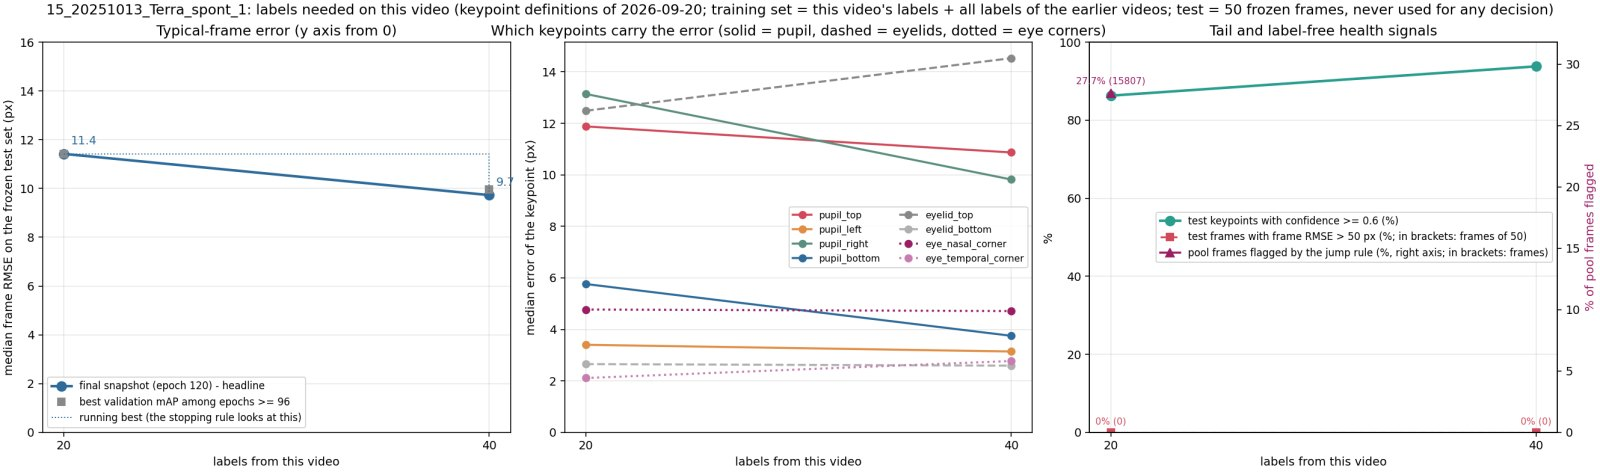
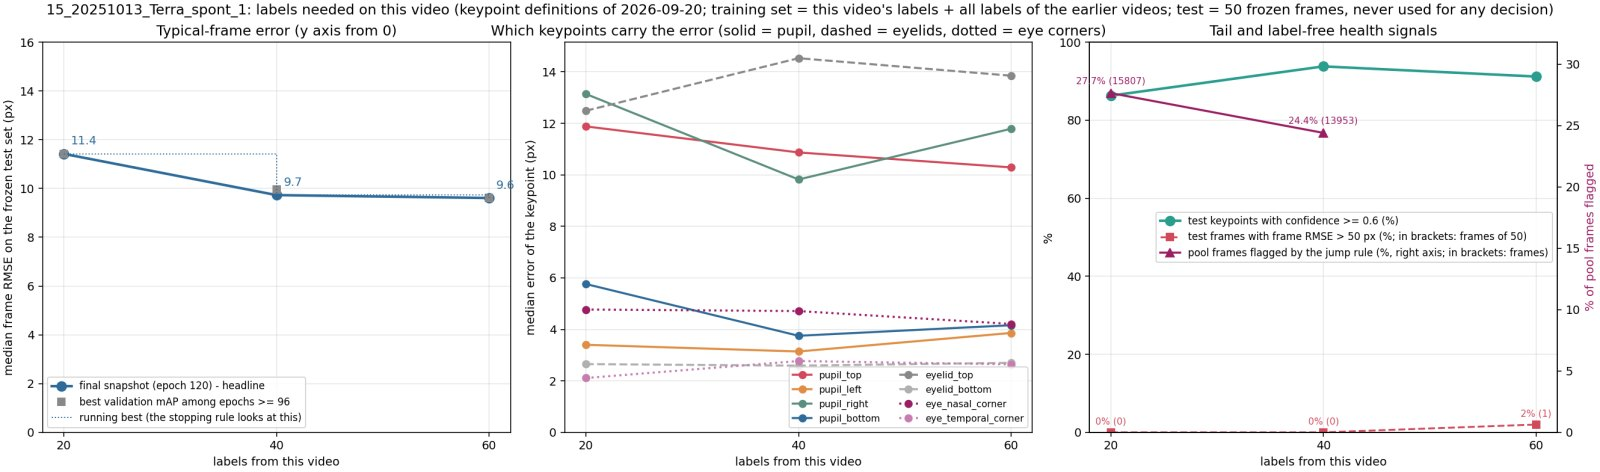
Plateau table: stray comma in the video 15 note removed (broke the CSV); plateau figure and page rebuilt with the step-3 numbers
Claude-Session: https://claude.ai/code/session_01HbY3eFuxfPQiRo7QFugpjw

diff --git a/report/index.html b/report/index.html
@@ -78,7 +78,7 @@ math[display="block"]{margin:10px 0 6px;text-align:left;overflow-x:auto;max-widt
 
 <header>
   <h1><span lang="zh">小鼠眼睛关键点追踪：做了什么，结果是什么</span><span lang="en">Mouse eye keypoint tracking: what was done and what came out</span></h1>
-  <p class="muted small">Zhiheng Li (University of Minnesota), Kaiwen Sheng (Stanford) · <span lang="zh">页面生成时间</span><span lang="en">page built</span> 2026-10-08 01:15 · <a href="https://github.com/ZhihengLi0/mouse-behavior-tracking">GitHub: ZhihengLi0/mouse-behavior-tracking</a></p>
+  <p class="muted small">Zhiheng Li (University of Minnesota), Kaiwen Sheng (Stanford) · <span lang="zh">页面生成时间</span><span lang="en">page built</span> 2026-10-08 12:14 · <a href="https://github.com/ZhihengLi0/mouse-behavior-tracking">GitHub: ZhihengLi0/mouse-behavior-tracking</a></p>
 
   <div class="text" lang="zh">
     <p><b>任务：</b>用 DeepLabCut 在小鼠眼睛视频的每一帧上找 8 个点：瞳孔上、下、左、右，上眼睑、下眼睑，鼻侧眼角、颞侧眼角。由这 8 个点得到瞳孔大小、眼睛睁开程度和眨眼，之后与脑记录对齐。</p>
@@ -105,7 +105,7 @@ math[display="block"]{margin:10px 0 6px;text-align:left;overflow-x:auto;max-widt
       <li><b>瞳孔面积怎么算？</b>按 2026 年 9 月 20 日明确的定义，瞳孔四个点都是椭圆端点，在 15 个视频的 743 帧测试帧上，四点法的面积误差中位数是 5.7%，三点法是 7.6%；视频 4 和 8 上面积仍然不准（第 9 步）。</li>
       <li><b>眨眼怎么判断？</b>第一轮先定了定义：非睁眼 = 眼睛闭上或眼睑盖住部分瞳孔。按帧的规则"睁开高度 ÷ 眼宽 &lt; 0.347"（眼睑点失效时看瞳孔置信度）在 239 帧单帧盲评上准确率 91%。主要发现：7 个视频（3、4、8–12）有 26–70% 的时间眼睛不是完全睁开的，半掩是那些录像的常态；眨眼是其中的子集，细分放下一轮（第 10 步）。</li>
     </ol>
-    <p><b>进度：</b>已完成 15 个视频（视频 0–14）；视频 15 进行中，按 0 / 20 / 40 / … 帧的误差为 10.57 / 11.42 / 9.73 px。</p>
+    <p><b>进度：</b>已完成 15 个视频（视频 0–14）；视频 15 进行中，按 0 / 20 / 40 / … 帧的误差为 10.57 / 11.42 / 9.73 / 9.61 px。</p>
   </div>
   <div class="text" lang="en">
     <p><b>Task:</b> DeepLabCut finds 8 points on every frame of a mouse-eye video: pupil top, bottom, left, right; upper and lower eyelid; nasal and temporal eye corner. From these we get pupil size, eye opening and blinks, to be aligned with brain recordings later.</p>
@@ -132,7 +132,7 @@ math[display="block"]{margin:10px 0 6px;text-align:left;overflow-x:auto;max-widt
       <li><b>How to compute the pupil area?</b> Under the definitions made explicit on 2026-09-20 all four pupil points are ellipse endpoints, and on the 743 test frames of 15 videos the four-point area has a median error of 5.7% against 7.6% for the three-point rule; on videos 4 and 8 the area is still not accurate (step 9).</li>
       <li><b>How to detect blinks?</b> The first round fixed a definition first: not open = the eye is closed or the lid covers part of the pupil. The per-frame rule "eye opening ÷ eye width &lt; 0.347" (pupil confidence when the eyelid points fail) is 91% accurate on 239 blind single frames. Main finding: in 7 videos (3, 4, 8–12) the eye is not fully open 26–70% of the time — a half-covered eye is the resting state of those recordings; blinks are a subset, and the finer classes come next (step 10).</li>
     </ol>
-    <p><b>Status:</b> 15 videos finished (videos 0–14); video 15 in progress, error at 0 / 20 / 40 / … labels: 10.57 / 11.42 / 9.73 px.</p>
+    <p><b>Status:</b> 15 videos finished (videos 0–14); video 15 in progress, error at 0 / 20 / 40 / … labels: 10.57 / 11.42 / 9.73 / 9.61 px.</p>
   </div>
 
   <div class="text" lang="zh">
@@ -627,7 +627,7 @@ math[display="block"]{margin:10px 0 6px;text-align:left;overflow-x:auto;max-widt
 <tr><td>12</td><td>Terra<br>2025-10-16</td><td>580</td><td>5.13 / 5.77 / 5.84</td><td><span lang="zh"><b>0 帧，5.13 px</b></span><span lang="en"><b>0 labels, 5.13 px</b></span></td><td>40</td><td>0</td></tr>
 <tr><td>13</td><td>Terra<br>2025-10-15</td><td>580</td><td>69.13 / 9.43 / 9.44 / 9.67</td><td><span lang="zh"><b>20 帧，9.43 px</b></span><span lang="en"><b>20 labels, 9.43 px</b></span></td><td>60</td><td>20</td></tr>
 <tr><td>14</td><td>Terra<br>2025-10-14</td><td>600</td><td>13.33 / 10.83 / 12.41 / 10.30 / 10.45 / 10.24</td><td><span lang="zh"><b>60 帧，10.30 px</b></span><span lang="en"><b>60 labels, 10.30 px</b></span></td><td>100</td><td>60</td></tr>
-<tr><td>15</td><td>Terra<br>2025-10-13</td><td>660</td><td>10.57 / 11.42 / 9.73</td><td><span lang="zh">进行中（目前最好：40 帧，9.73 px）</span><span lang="en">in progress (best so far: 40 labels, 9.73 px)</span></td><td>40</td><td>–</td></tr>
+<tr><td>15</td><td>Terra<br>2025-10-13</td><td>660</td><td>10.57 / 11.42 / 9.73 / 9.61</td><td><span lang="zh">进行中（目前最好：40 帧，9.73 px）</span><span lang="en">in progress (best so far: 40 labels, 9.73 px)</span></td><td>60</td><td>–</td></tr>
       </tbody>
     </table>
   </div>
@@ -727,6 +727,7 @@ math[display="block"]{margin:10px 0 6px;text-align:left;overflow-x:auto;max-widt
 <tr><td>12</td><td>5.13</td><td>5.79 / 6.63</td><td>5.99 / 5.96</td><td>5.77</td></tr>
 <tr><td>13</td><td>69.13</td><td>10.46 / 16.03</td><td>11.24 / 10.29</td><td>9.43</td></tr>
 <tr><td>14</td><td>13.33</td><td>10.93 / 10.22</td><td>9.82 / 10.06</td><td>10.83</td></tr>
+<tr><td>15</td><td>10.57</td><td>12.55 / 9.82</td><td>11.09 / –</td><td>11.42</td></tr>
       </tbody>
     </table>
   </div>
@@ -1322,10 +1323,11 @@ math[display="block"]{margin:10px 0 6px;text-align:left;overflow-x:auto;max-widt
       <div class="item"><img src="assets/selection_video14_batch05.jpg" alt="Video 14 batch 5" loading="lazy"><div class="cap"><span lang="zh">视频 14 第 5 批（由 80 帧模型的 jump 规则挑）</span><span lang="en">Video 14, batch 5 (picked by the jump rule of the 80-label model)</span></div></div>
       <div class="item"><img src="assets/selection_video14_batch06.jpg" alt="Video 14 batch 6" loading="lazy"><div class="cap"><span lang="zh">视频 14 第 6 批（由 100 帧模型的 jump 规则挑）</span><span lang="en">Video 14, batch 6 (picked by the jump rule of the 100-label model)</span></div></div>
   </div></div></figure>
-  <p class="text"><b><span lang="zh">视频 15（Terra，2025-10-13）：2 批</span><span lang="en">Video 15 (Terra, 2025-10-13): 2 batches</span></b></p>
+  <p class="text"><b><span lang="zh">视频 15（Terra，2025-10-13）：3 批</span><span lang="en">Video 15 (Terra, 2025-10-13): 3 batches</span></b></p>
   <figure><div class="figbox scroll"><div class="strip tall">
       <div class="item"><img src="assets/selection_video15_batch01.jpg" alt="Video 15 batch 1" loading="lazy"><div class="cap"><span lang="zh">视频 15 第 1 批（按画面外观挑，没有用模型）</span><span lang="en">Video 15, batch 1 (picked by appearance, no model)</span></div></div>
       <div class="item"><img src="assets/selection_video15_batch02.jpg" alt="Video 15 batch 2" loading="lazy"><div class="cap"><span lang="zh">视频 15 第 2 批（由 20 帧模型的 jump 规则挑）</span><span lang="en">Video 15, batch 2 (picked by the jump rule of the 20-label model)</span></div></div>
+      <div class="item"><img src="assets/selection_video15_batch03.jpg" alt="Video 15 batch 3" loading="lazy"><div class="cap"><span lang="zh">视频 15 第 3 批（由 40 帧模型的 jump 规则挑）</span><span lang="en">Video 15, batch 3 (picked by the jump rule of the 40-label model)</span></div></div>
   </div></div></figure>
   <h3><span lang="zh">附 2：眨眼第一轮定义的单帧盲评（标注者的判断和原图）</span><span lang="en">A2: the single-frame blind check of the first-round blink definition (the labeler's verdicts on the original frames)</span></h3>
   <p class="text" lang="zh">第 10 步 10.2 节用到的 240 帧（每个视频 18 帧，按模型给出的睁开高度分五层随机抽，与前两轮抽查不重叠）。标注者只看单帧原图、不看任何数值，判断“睁开”或“非睁眼（闭上，或眼睑盖住部分瞳孔）”。每张小图的边框和底条：绿 = 睁开，红 = 非睁眼；底条上的 r（睁开高度 ÷ 该视频中位数）是事后标上去的。每个视频一行，可左右拖动。</p>

diff --git a/report/index_en.html b/report/index_en.html
@@ -75,7 +75,7 @@ math[display="block"]{margin:10px 0 6px;text-align:left;overflow-x:auto;max-widt
 
 <header>
   <h1><span lang="en">Mouse eye keypoint tracking: what was done and what came out</span></h1>
-  <p class="muted small">Zhiheng Li (University of Minnesota), Kaiwen Sheng (Stanford) · <span lang="en">page built</span> 2026-10-08 01:15 · <a href="https://github.com/ZhihengLi0/mouse-behavior-tracking">GitHub: ZhihengLi0/mouse-behavior-tracking</a></p>
+  <p class="muted small">Zhiheng Li (University of Minnesota), Kaiwen Sheng (Stanford) · <span lang="en">page built</span> 2026-10-08 12:14 · <a href="https://github.com/ZhihengLi0/mouse-behavior-tracking">GitHub: ZhihengLi0/mouse-behavior-tracking</a></p>
 
   
   <div class="text" lang="en">
@@ -103,7 +103,7 @@ math[display="block"]{margin:10px 0 6px;text-align:left;overflow-x:auto;max-widt
       <li><b>How to compute the pupil area?</b> Under the definitions made explicit on 2026-09-20 all four pupil points are ellipse endpoints, and on the 743 test frames of 15 videos the four-point area has a median error of 5.7% against 7.6% for the three-point rule; on videos 4 and 8 the area is still not accurate (step 9).</li>
       <li><b>How to detect blinks?</b> The first round fixed a definition first: not open = the eye is closed or the lid covers part of the pupil. The per-frame rule "eye opening ÷ eye width &lt; 0.347" (pupil confidence when the eyelid points fail) is 91% accurate on 239 blind single frames. Main finding: in 7 videos (3, 4, 8–12) the eye is not fully open 26–70% of the time — a half-covered eye is the resting state of those recordings; blinks are a subset, and the finer classes come next (step 10).</li>
     </ol>
-    <p><b>Status:</b> 15 videos finished (videos 0–14); video 15 in progress, error at 0 / 20 / 40 / … labels: 10.57 / 11.42 / 9.73 px.</p>
+    <p><b>Status:</b> 15 videos finished (videos 0–14); video 15 in progress, error at 0 / 20 / 40 / … labels: 10.57 / 11.42 / 9.73 / 9.61 px.</p>
   </div>
 
   
@@ -505,7 +505,7 @@ math[display="block"]{margin:10px 0 6px;text-align:left;overflow-x:auto;max-widt
 <tr><td>12</td><td>Terra<br>2025-10-16</td><td>580</td><td>5.13 / 5.77 / 5.84</td><td><span lang="en"><b>0 labels, 5.13 px</b></span></td><td>40</td><td>0</td></tr>
 <tr><td>13</td><td>Terra<br>2025-10-15</td><td>580</td><td>69.13 / 9.43 / 9.44 / 9.67</td><td><span lang="en"><b>20 labels, 9.43 px</b></span></td><td>60</td><td>20</td></tr>
 <tr><td>14</td><td>Terra<br>2025-10-14</td><td>600</td><td>13.33 / 10.83 / 12.41 / 10.30 / 10.45 / 10.24</td><td><span lang="en"><b>60 labels, 10.30 px</b></span></td><td>100</td><td>60</td></tr>
-<tr><td>15</td><td>Terra<br>2025-10-13</td><td>660</td><td>10.57 / 11.42 / 9.73</td><td><span lang="en">in progress (best so far: 40 labels, 9.73 px)</span></td><td>40</td><td>–</td></tr>
+<tr><td>15</td><td>Terra<br>2025-10-13</td><td>660</td><td>10.57 / 11.42 / 9.73 / 9.61</td><td><span lang="en">in progress (best so far: 40 labels, 9.73 px)</span></td><td>60</td><td>–</td></tr>
       </tbody>
     </table>
   </div>
@@ -586,6 +586,7 @@ math[display="block"]{margin:10px 0 6px;text-align:left;overflow-x:auto;max-widt
 <tr><td>12</td><td>5.13</td><td>5.79 / 6.63</td><td>5.99 / 5.96</td><td>5.77</td></tr>
 <tr><td>13</td><td>69.13</td><td>10.46 / 16.03</td><td>11.24 / 10.29</td><td>9.43</td></tr>
 <tr><td>14</td><td>13.33</td><td>10.93 / 10.22</td><td>9.82 / 10.06</td><td>10.83</td></tr>
+<tr><td>15</td><td>10.57</td><td>12.55 / 9.82</td><td>11.09 / –</td><td>11.42</td></tr>
       </tbody>
     </table>
   </div>
@@ -1079,10 +1080,11 @@ math[display="block"]{margin:10px 0 6px;text-align:left;overflow-x:auto;max-widt
       <div class="item"><img src="assets/selection_video14_batch05.jpg" alt="Video 14 batch 5" loading="lazy"><div class="cap"><span lang="en">Video 14, batch 5 (picked by the jump rule of the 80-label model)</span></div></div>
       <div class="item"><img src="assets/selection_video14_batch06.jpg" alt="Video 14 batch 6" loading="lazy"><div class="cap"><span lang="en">Video 14, batch 6 (picked by the jump rule of the 100-label model)</span></div></div>
   </div></div></figure>
-  <p class="text"><b><span lang="en">Video 15 (Terra, 2025-10-13): 2 batches</span></b></p>
+  <p class="text"><b><span lang="en">Video 15 (Terra, 2025-10-13): 3 batches</span></b></p>
   <figure><div class="figbox scroll"><div class="strip tall">
       <div class="item"><img src="assets/selection_video15_batch01.jpg" alt="Video 15 batch 1" loading="lazy"><div class="cap"><span lang="en">Video 15, batch 1 (picked by appearance, no model)</span></div></div>
       <div class="item"><img src="assets/selection_video15_batch02.jpg" alt="Video 15 batch 2" loading="lazy"><div class="cap"><span lang="en">Video 15, batch 2 (picked by the jump rule of the 20-label model)</span></div></div>
+      <div class="item"><img src="assets/selection_video15_batch03.jpg" alt="Video 15 batch 3" loading="lazy"><div class="cap"><span lang="en">Video 15, batch 3 (picked by the jump rule of the 40-label model)</span></div></div>
   </div></div></figure>
   <h3><span lang="en">A2: the single-frame blind check of the first-round blink definition (the labeler's verdicts on the original frames)</span></h3>
   
